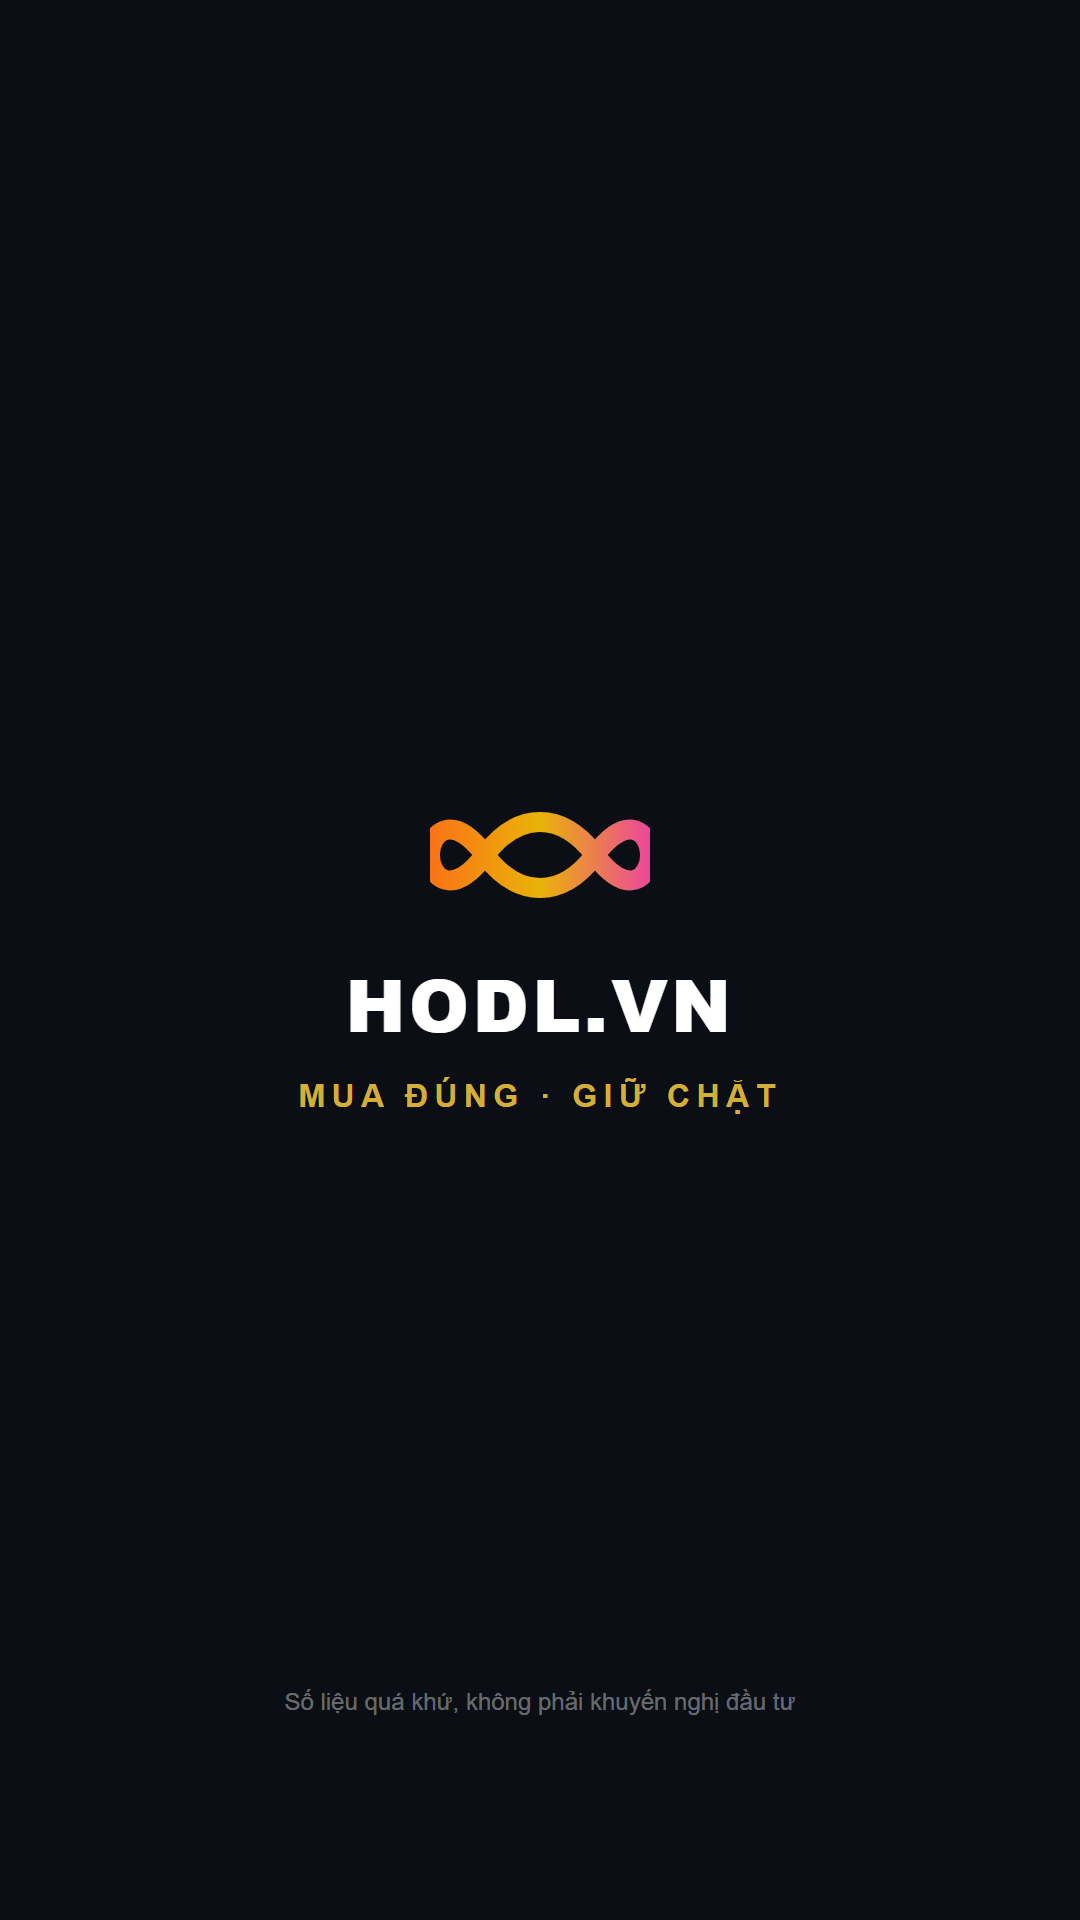
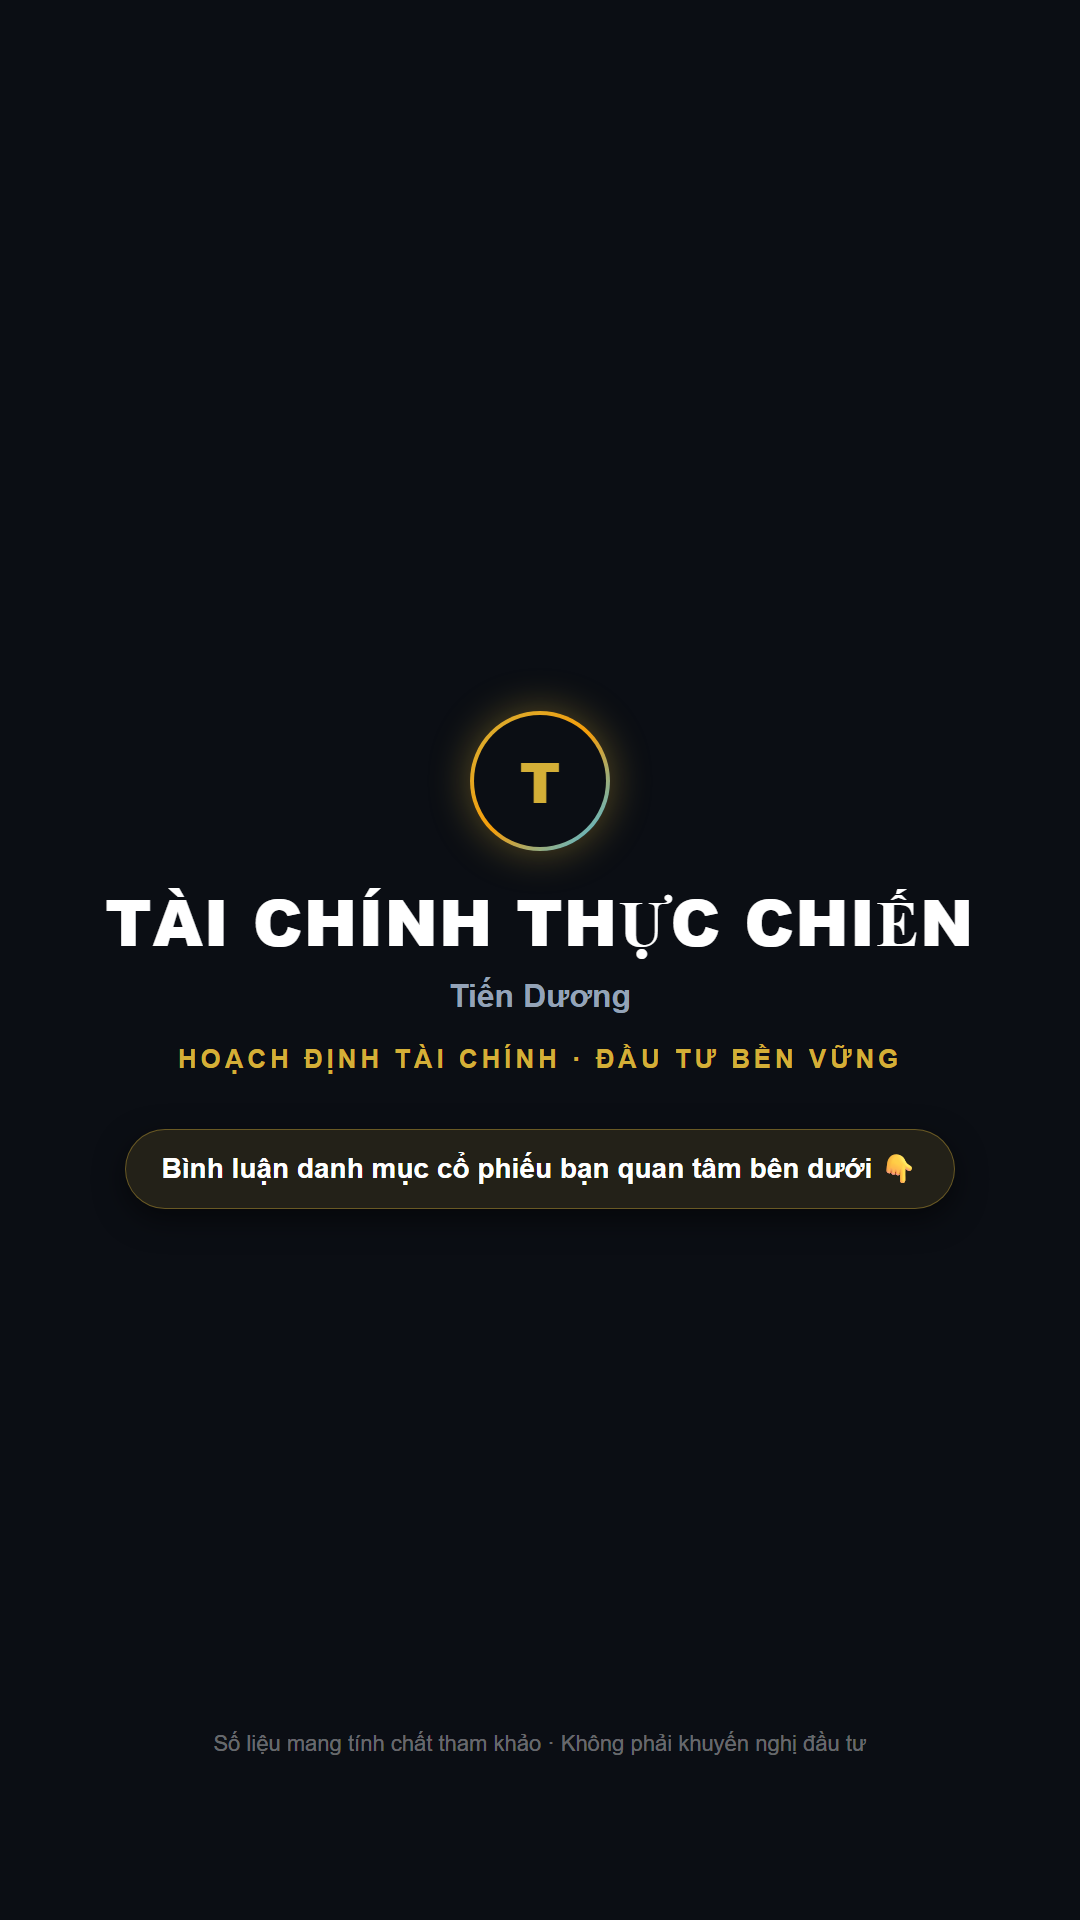
feat: isolate creator branding and enforce User Brand Outro in Remotion template

Changed region(s): [[0.0917, 0.3438, 0.9167, 0.625], [0.275, 0.875, 0.7639, 0.9375], [0.7639, 0.5312, 0.825, 0.5625]]

diff --git a/engines/remotion/src/projects/investment-race-chart/OutroCard.tsx b/engines/remotion/src/projects/investment-race-chart/OutroCard.tsx
@@ -1,6 +1,23 @@
 import React from "react";
+import userBrand from "../../../../../brand/user-brand.json";
 
-export const OutroCard: React.FC<{ opacity?: number }> = ({ opacity = 1 }) => {
+interface OutroProps {
+  opacity?: number;
+  brandName?: string;
+  creatorName?: string;
+  tagline?: string;
+  cta?: string;
+  disclaimer?: string;
+}
+
+export const OutroCard: React.FC<OutroProps> = ({
+  opacity = 1,
+  brandName = userBrand.brandName || "TÀI CHÍNH THỰC CHIẾN",
+  creatorName = userBrand.creatorName || "Tiến Dương",
+  tagline = userBrand.tagline || "HOẠCH ĐỊNH TÀI CHÍNH · ĐẦU TƯ BỀN VỮNG",
+  cta = userBrand.cta || "Bình luận danh mục của bạn bên dưới 👇",
+  disclaimer = userBrand.disclaimer || "Số liệu mang tính chất tham khảo · Không phải khuyến nghị đầu tư"
+}) => {
   return (
     <div
       style={{
@@ -12,69 +29,114 @@ export const OutroCard: React.FC<{ opacity?: number }> = ({ opacity = 1 }) => {
         flexDirection: "column",
         alignItems: "center",
         justifyContent: "center",
-        padding: 60,
-        zIndex: 60
+        padding: "80px 60px",
+        zIndex: 60,
+        fontFamily: "'Inter', sans-serif"
       }}
     >
-      {/* Infinity Icon Graphic */}
-      <div style={{ marginBottom: 40, position: "relative" }}>
-        <svg width="220" height="110" viewBox="0 0 200 100" fill="none">
-          <path
-            d="M 50,50 C 20,10 0,30 0,50 C 0,70 20,90 50,50 C 80,10 120,10 150,50 C 180,90 200,70 200,50 C 200,30 180,10 150,50 C 120,90 80,90 50,50 Z"
-            stroke="url(#infinityGradient)"
-            strokeWidth="18"
-            strokeLinecap="round"
-            strokeLinejoin="round"
-          />
-          <defs>
-            <linearGradient id="infinityGradient" x1="0%" y1="0%" x2="100%" y2="0%">
-              <stop offset="0%" stopColor="#f97316" />
-              <stop offset="50%" stopColor="#eab308" />
-              <stop offset="100%" stopColor="#ec4899" />
-            </linearGradient>
-          </defs>
-        </svg>
+      {/* Creator Avatar / Brand Emblem */}
+      <div
+        style={{
+          width: 140,
+          height: 140,
+          borderRadius: "50%",
+          background: "linear-gradient(135deg, #d4af37, #f59e0b, #38bdf8)",
+          padding: 4,
+          boxShadow: "0 0 40px rgba(212, 175, 55, 0.4)",
+          marginBottom: 32
+        }}
+      >
+        <div
+          style={{
+            width: "100%",
+            height: "100%",
+            borderRadius: "50%",
+            backgroundColor: "#0b0e14",
+            display: "flex",
+            alignItems: "center",
+            justifyContent: "center",
+            fontSize: 56,
+            fontWeight: 900,
+            color: "#d4af37"
+          }}
+        >
+          {creatorName ? creatorName.charAt(0) : "T"}
+        </div>
       </div>
 
-      {/* Brand Title */}
+      {/* Brand / Channel Name */}
       <h1
         style={{
           color: "#ffffff",
-          fontSize: 72,
+          fontSize: 64,
           fontWeight: 900,
           margin: 0,
-          letterSpacing: "0.05em",
-          textTransform: "uppercase"
+          letterSpacing: "0.02em",
+          textAlign: "center",
+          lineHeight: 1.2
         }}
       >
-        HODL.VN
+        {brandName}
       </h1>
 
-      {/* Slogan */}
+      {/* Creator Byline */}
+      <div
+        style={{
+          color: "#94a3b8",
+          fontSize: 32,
+          fontWeight: 600,
+          marginTop: 12
+        }}
+      >
+        {creatorName}
+      </div>
+
+      {/* Tagline */}
       <div
         style={{
           color: "#d4af37",
-          fontSize: 32,
+          fontSize: 26,
           fontWeight: 700,
-          letterSpacing: "0.2em",
+          letterSpacing: "0.15em",
           textTransform: "uppercase",
-          marginTop: 14
+          marginTop: 20,
+          textAlign: "center"
         }}
       >
-        MUA ĐÚNG · GIỮ CHẶT
+        {tagline}
+      </div>
+
+      {/* CTA Box */}
+      <div
+        style={{
+          marginTop: 50,
+          backgroundColor: "rgba(212, 175, 55, 0.12)",
+          border: "1.5px solid rgba(212, 175, 55, 0.4)",
+          borderRadius: 40,
+          padding: "18px 36px",
+          color: "#ffffff",
+          fontSize: 28,
+          fontWeight: 700,
+          textAlign: "center",
+          boxShadow: "0 10px 30px rgba(0, 0, 0, 0.5)"
+        }}
+      >
+        {cta}
       </div>
 
       {/* Bottom Legal Disclaimer */}
       <div
         style={{
           position: "absolute",
-          bottom: 200,
+          bottom: 160,
           color: "rgba(255, 255, 255, 0.4)",
-          fontSize: 24,
-          textAlign: "center"
+          fontSize: 22,
+          textAlign: "center",
+          maxWidth: 900,
+          lineHeight: 1.4
         }}
       >
-        Số liệu quá khứ, không phải khuyến nghị đầu tư
+        {disclaimer}
       </div>
     </div>
   );

diff --git a/engines/remotion/src/projects/investment-race-chart/LeaderboardTable.tsx b/engines/remotion/src/projects/investment-race-chart/LeaderboardTable.tsx
@@ -17,7 +17,7 @@ export const LeaderboardTable: React.FC<{ opacity?: number }> = ({ opacity = 1 }
     >
       {/* Header */}
       <div style={{ color: "#d4af37", fontSize: 26, fontWeight: 700, letterSpacing: "0.1em", textTransform: "uppercase", marginBottom: 8 }}>
-        HODL.VN · 100 TRIỆU VN30
+        TÀI CHÍNH THỰC CHIẾN · 100 TRIỆU VN30
       </div>
       <h1 style={{ color: "#ffffff", fontSize: 52, fontWeight: 800, margin: 0, lineHeight: 1.2 }}>
         100 triệu sau 2019–2026

diff --git a/engines/remotion/src/projects/investment-race-chart/InvestmentRaceVideo.tsx b/engines/remotion/src/projects/investment-race-chart/InvestmentRaceVideo.tsx
@@ -49,7 +49,7 @@ export const InvestmentRaceVideo: React.FC = () => {
       {frame < 930 && (
         <div style={{ opacity: chartOpacity }}>
           <FixedHeader
-            eyebrow="HODL.VN · 100 TRIỆU VN30"
+            eyebrow="TÀI CHÍNH THỰC CHIẾN · 100 TRIỆU VN30"
             title="Mua ngày 02/01/2019, giữ tới nay"
             subtitle="Giữ nguyên, cổ tức mua thêm cổ phiếu"
           />

diff --git a/engines/remotion/src/projects/investment-race-chart/ChartComponents.tsx b/engines/remotion/src/projects/investment-race-chart/ChartComponents.tsx
@@ -11,7 +11,7 @@ export const FixedHeader: React.FC<{
   title?: string;
   subtitle?: string;
 }> = ({
-  eyebrow = "HODL.VN · 100 TRIỆU VN30",
+  eyebrow = "TÀI CHÍNH THỰC CHIẾN · 100 TRIỆU VN30",
   title = "Mua ngày 02/01/2019, giữ tới nay",
   subtitle = "Giữ nguyên, cổ tức mua thêm cổ phiếu"
 }) => {

diff --git a/AGENTS.md b/AGENTS.md
@@ -36,6 +36,13 @@ VIDEO MẪU (MP4 / LINK)
   └─ Giữ nguyên 100% DNA chuyển động & layout, thay thế kịch bản và nội dung mới
 ```
 
+> [!CAUTION]
+> **LUẬT CÁCH LY THƯƠNG HIỆU & OUTRO BẮT BUỘC (BRAND ISOLATION MANDATE)**:
+> 1. **Mọi video đều cần có Outro Thương hiệu**: Tạo điểm dừng kết thúc chuyên nghiệp, kêu gọi hành động (CTA), ghi nhớ thương hiệu và tuân thủ pháp lý/disclaimer.
+> 2. **CẤM 100% giữ lại thương hiệu của video mẫu**: Khi bóc tách video tham khảo, tuyệt đối KHÔNG mang tên kênh, logo, slogan, watermark hay hotline của tác giả gốc (như HODL.VN, Cường IT...) vào code sản phẩm.
+> 3. **Tự động thay thế bằng Thương hiệu của User**: Toàn bộ Outro, Eyebrow và Watermark bắt buộc nạp thông tin nhận diện của User (được định cấu hình tại `brand/user-brand.json`).
+
+
 ---
 
 ## 2 Workflows sản xuất chính (+ 1 Luồng Mở rộng)
